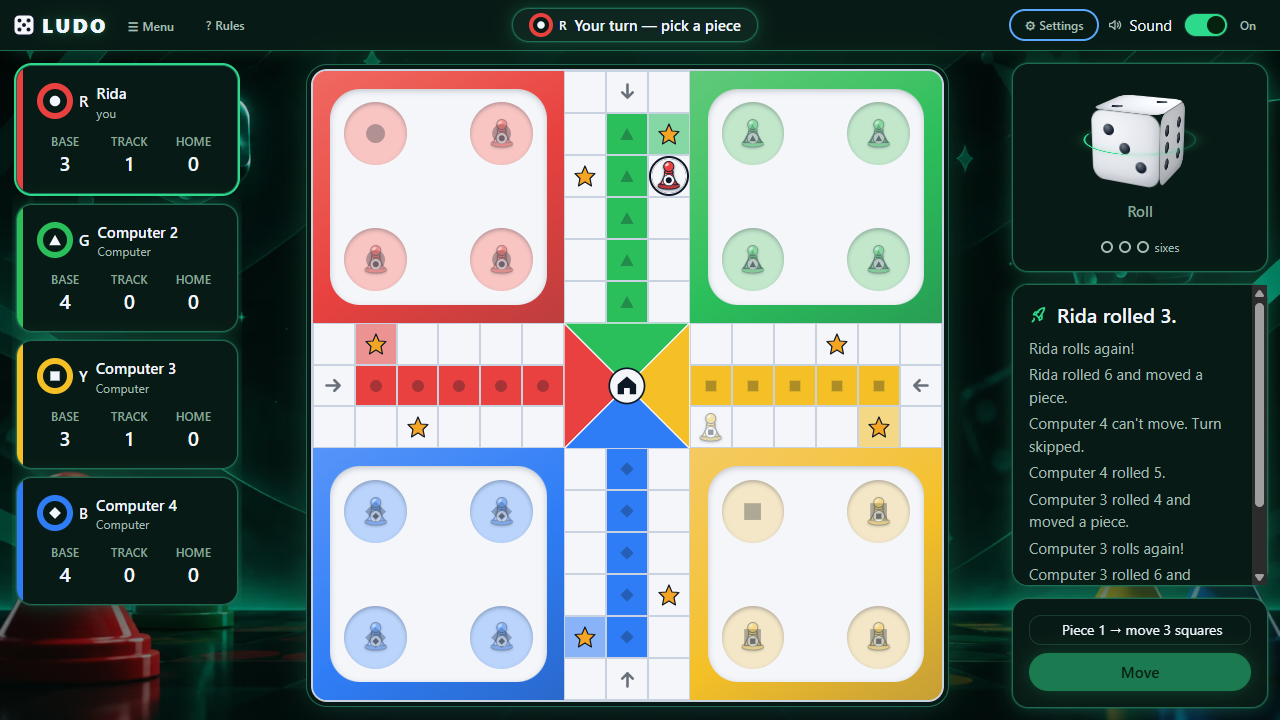
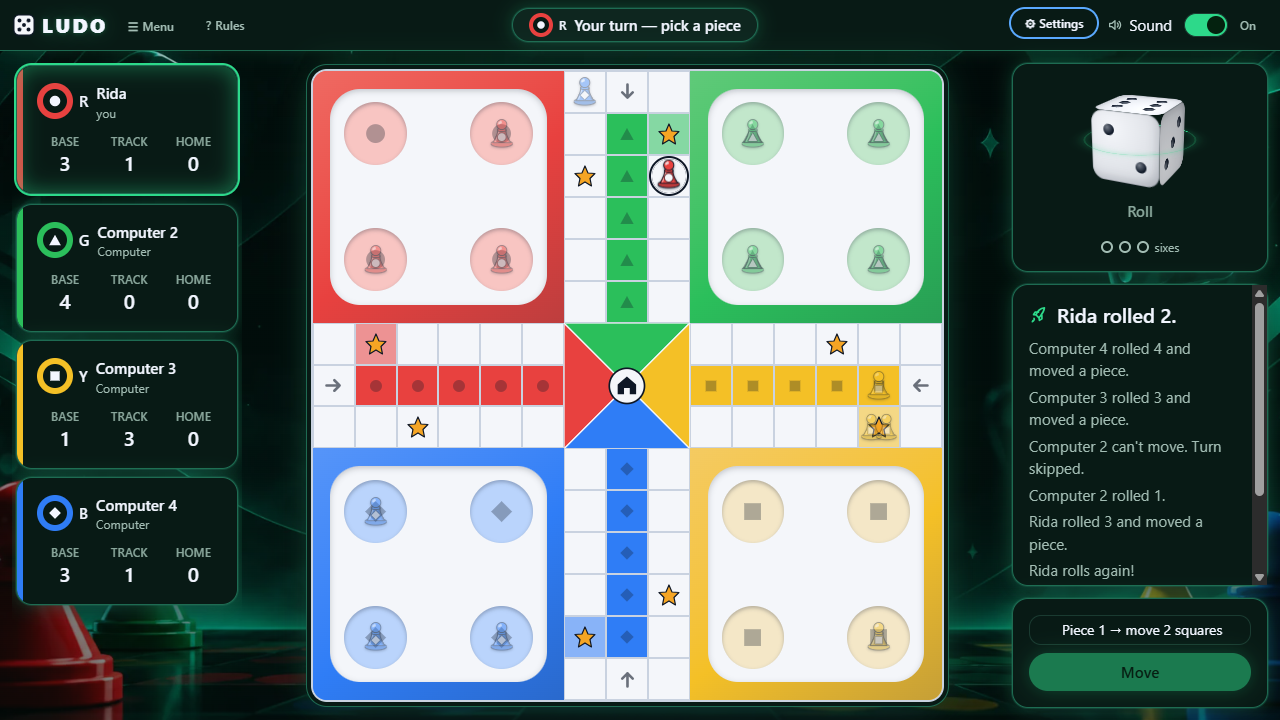
docs: record the new pawn emblem and sounds (FR-SYS-10, NFR-SYS-07)
NFR-SYS-07-pawn-emblem.md and .png show the pawns before and after, in
colour and grayscale. The sounds section of FR-SYS-10-motion-checks.md
describes the new sounds with their measurements and old-and-new
spectrograms. The grayscale and theme screenshots are retaken with the
new pawns. CHANGELOG and the FR-SYS-10 and NFR-SYS-07 rows updated.

diff --git a/docs/05-traceability.md b/docs/05-traceability.md
@@ -21,7 +21,7 @@ Status: `—` not started · `WIP` · `Done` · `Blocked (reason)` · `Dropped (
 | FR-SYS-07 Computer moves | FR-30–31 | P5, P7 | `src/store/gameStore.test.ts` covers `selectIsComputerTurn`. Choosing computer players is done: `src/screens/LobbyScreen.test.tsx` proves a seat fills only when `room:updated` arrives (POST-07-2), and `docs/evidence/FR-SYS-01-lobby-flow.md` shows it live in two tabs. `docs/evidence/FR-SYS-07-computer-move-from-snapshot.png` shows a computer's move drawn from a real snapshot on the game screen. `src/screens/GameScreen.test.tsx` proves a computer's turn says "Computer is thinking…" with the dots, and `docs/evidence/FR-SYS-07-computer-thinking.png` shows it in a real match | Done |
 | FR-SYS-08 Restart, exit, rematch | FR-32–34 | P5, P10 | `src/components/ConfirmDialog.test.tsx` covers the dialog alone. Leaving the lobby is connected: `src/screens/LobbyScreen.test.tsx` and `src/store/gameStore.test.ts` prove Cancel sends nothing (POST-08-1) and a failed leave keeps the room (POST-08-3), and `docs/evidence/FR-SYS-01-lobby-flow.md` shows Esc and Cancel changing nothing in a real browser. `src/components/GameMenu.test.tsx` and `src/screens/GameScreen.test.tsx` prove Restart and Leave ask first, Cancel changes nothing (POST-08-1), and a refused request keeps the game (POST-08-3, tests only). `src/screens/WinScreen.test.tsx`, `src/screens/StoppedScreen.test.tsx` and `src/interaction/useAppNavigation.test.ts` cover Play again, New game, Main menu and the stopped screen, which is tests only. `docs/evidence/FR-SYS-06-win-restart-checks.md` and `docs/evidence/FR-SYS-08-restart-confirm.png` show the rest in real matches with two tabs | Done |
 | FR-SYS-09 One-screen view | FR-35–36 | P6 | `docs/evidence/FR-SYS-09-one-screen-1280x720.png` and `docs/evidence/FR-SYS-09-game-screen-checks.md`: board, dice, turn, progress and messages all fit at 1280×720 with no scrolling, measured in Edge. Under 1024 px the layout stacks and hides nothing (ALT-09-1). `src/screens/GameScreen.test.tsx` proves every part is on the screen. `docs/evidence/FR-SYS-03-move-checks.md` re-measures the screen with the longest list of moves open, and `docs/evidence/FR-SYS-05-event-checks.md` with a full message log. P7 and P9 filled the dice and messages with live content | Done |
-| FR-SYS-10 Sound, animation, theme | FR-37–39 | P5, P8, P9 | `src/App.test.tsx` covers all three settings in the Settings modal and POST-10-2 and POST-10-3: changing them leaves the snapshot and room untouched and sends nothing to the server. `docs/evidence/FR-SYS-01-lobby-flow.md` shows the theme switching on every screen, and `docs/evidence/FR-SYS-10-game-light.png` shows the game screen in light theme. `src/screens/GameScreen.test.tsx` proves the top bar's sound switch leaves the snapshot alone. `docs/evidence/NFR-SYS-08-kitchen-sink-checks.md` shows On, Fast and Off changing how long CSS motion takes. `docs/evidence/FR-SYS-03-move-checks.md` shows Animations On and Off ending on an identical board in a real match. `src/feedback/sound.test.ts` proves sound waits for the first press and does nothing when off. `docs/evidence/FR-SYS-05-event-checks.md` shows the right sounds playing in a real match (placeholder tones), and sound, theme and animation changed during a real game with the board and log unchanged. `docs/evidence/FR-SYS-10-win-light.png` shows the win screen in light theme. Saving settings stays behind `PERSIST_SETTINGS` (ALT-10-1 is TO CONFIRM). P14 adds three more themes (Neon, Forest, Minimal): `src/config/themes.test.ts` checks each sets every colour, `docs/evidence/FR-SYS-10-theme-neon.png` and the other theme screenshots show them, and `docs/evidence/P14-polish-checks.md` records no text below WCAG AA in any of the five. After P14, motion and new sounds: `docs/evidence/FR-SYS-10-motion-checks.md` (`npm run e2e -- motion`) shows the entrances and game motion playing with On, everything ending visible and in place, each sequence done within a second, and nothing moving at all, idle loops included, with Animations Off or the reduced-motion setting (POST-10-2). The sounds come from `scripts/make-sounds.py` and are measured there | Done |
+| FR-SYS-10 Sound, animation, theme | FR-37–39 | P5, P8, P9 | `src/App.test.tsx` covers all three settings in the Settings modal and POST-10-2 and POST-10-3: changing them leaves the snapshot and room untouched and sends nothing to the server. `docs/evidence/FR-SYS-01-lobby-flow.md` shows the theme switching on every screen, and `docs/evidence/FR-SYS-10-game-light.png` shows the game screen in light theme. `src/screens/GameScreen.test.tsx` proves the top bar's sound switch leaves the snapshot alone. `docs/evidence/NFR-SYS-08-kitchen-sink-checks.md` shows On, Fast and Off changing how long CSS motion takes. `docs/evidence/FR-SYS-03-move-checks.md` shows Animations On and Off ending on an identical board in a real match. `src/feedback/sound.test.ts` proves sound waits for the first press and does nothing when off. `docs/evidence/FR-SYS-05-event-checks.md` shows the right sounds playing in a real match (placeholder tones), and sound, theme and animation changed during a real game with the board and log unchanged. `docs/evidence/FR-SYS-10-win-light.png` shows the win screen in light theme. Saving settings stays behind `PERSIST_SETTINGS` (ALT-10-1 is TO CONFIRM). P14 adds three more themes (Neon, Forest, Minimal): `src/config/themes.test.ts` checks each sets every colour, `docs/evidence/FR-SYS-10-theme-neon.png` and the other theme screenshots show them, and `docs/evidence/P14-polish-checks.md` records no text below WCAG AA in any of the five. After P14, motion and new sounds: `docs/evidence/FR-SYS-10-motion-checks.md` (`npm run e2e -- motion`) shows the entrances and game motion playing with On, everything ending visible and in place, each sequence done within a second, and nothing moving at all, idle loops included, with Animations Off or the reduced-motion setting (POST-10-2). The sounds come from `scripts/make-sounds.py` and are measured there. The second version of the sounds models real things (a die on a wooden board, bells, brass), at matched loudness; `src/feedback/sound.test.ts` now reads the real file and checks each sound is where `sound.ts` says, whole and unclipped | Done |
 | (D2 FR-07) Rules summary | FR-07 | P5, P6 | `src/components/RulesSummary.test.tsx` proves the text is built from `rules`. `src/App.test.tsx` proves How to play opens the standard rules from the main screen, that a room's own rules replace them in the lobby, and that the game screen's Rules button opens that match's rules. `docs/evidence/NFR-SYS-11-changed-rules.png` shows the text following the server's rules in a real match | Done |
 | (D2 FR-03) Same-device HvH | FR-03 | P13 | The client said on 2026-11-21 that it isn't needed (`00-requirements.md` §5), so P13 was dropped | Dropped (not needed) |
 
@@ -35,7 +35,7 @@ Status: `—` not started · `WIP` · `Done` · `Blocked (reason)` · `Dropped (
 | NFR-SYS-04 State kept on bad input | P3, P11, P12 | `src/store/gameStore.test.ts`: an older version is dropped, and a rejected or timed-out command leaves the snapshot deep-equal. `src/adapter/LgsAdapter.test.ts`: an incomplete reply is never applied. `src/store/gameStore.test.ts` and `src/feedback/useEventFeedback.test.ts` prove a lost connection keeps the board and events missed while away are never guessed. `src/interaction/useAppNavigation.test.ts` proves a refresh goes back to the right screen, and `src/App.test.tsx` covers the banner and the second-tab card. `src/components/ConnectionBanner.test.tsx` and `src/components/StillThereDialog.test.tsx` cover what the player is told. `docs/evidence/NFR-SYS-04-resilience-checks.md` shows a refresh, a reconnect, a lost snapshot and a second tab in real matches. `docs/evidence/NFR-SYS-04.md` has the P12 test run, and a browser check that fast repeated presses send one request and presses for moves not on offer send nothing | Done |
 | NFR-SYS-05 Dice not altered | P7, P12 | `src/components/Dice.test.tsx`: the face equals the value given, and no number shows while rolling. A search finds no `Math.random` in `src/`, and `eslint.config.js` now rejects it outside tests. `src/screens/GameScreen.test.tsx` proves the die lands on the server's 6, 1 and 3. `docs/evidence/FR-SYS-02-dice-checks.md` and `docs/evidence/NFR-SYS-05-die-shows-six.png` show the same forced rolls in a real match. `docs/evidence/NFR-SYS-05.md` has the P12 test run and search. The optional 3D die from P14 follows the same rule: `src/components/Dice3D.test.tsx` proves it gets no value while rolling, and `docs/evidence/P14-polish-checks.md` records six rolls in a real browser, each landing on the server's value (`docs/evidence/NFR-SYS-05-die3d-landed.png`). Since the visual refresh the default die is a CSS cube (`src/components/DiceFace.tsx`): only its front face has pips, so it still shows only the server's value, and `src/components/Dice.test.tsx` passes unchanged. The emerald look makes it a full cube with pips on all six faces, like a real die: `src/components/DieCube.test.tsx` proves only the face turned to the player is marked as the value and every face is blank while it tumbles, and the front page's die (`src/components/HeroDie.test.tsx`) is decoration that never shows a value | Done |
 | NFR-SYS-06 First-timer completes a turn | P12 | The design supports it with the rules summary (`src/components/RulesSummary.test.tsx`), highlighted pieces and plain words (`docs/evidence/NFR-SYS-08-keyboard.md`). Not run yet: the hallway test needs a person who hasn't seen the app. `docs/evidence/NFR-SYS-06-first-use.md` has the steps and a place for the result. `docs/evidence/NFR-SYS-06-walkthrough.md` records an expert walkthrough, which is not the hallway test: it found that the turn line didn't say to press Move after a piece was picked (fixed, and `src/screens/GameScreen.test.tsx` covers it) and that a skipped first turn doesn't say why (a team decision). Still needed: the hallway test | WIP |
-| NFR-SYS-07 Not colour alone | P4, P12 | `docs/evidence/NFR-SYS-07-player-marks.png`: the `PlayerMark` row in grayscale, where shape and letter still tell the four players apart. `PlayerMark` and `Piece` read `PLAYER_IDENTITY` in `src/config/players.ts`. `src/screens/LobbyScreen.test.tsx` proves every lobby seat shows its mark, empty seats included. `src/components/StatusPanel.test.tsx` proves the game screen's cards show more than colour, and `docs/evidence/NFR-SYS-07-board-grayscale.png` shows the board and status panel in grayscale. `docs/evidence/NFR-SYS-07-move-highlights-grayscale.png` and `docs/evidence/NFR-SYS-07-capture-grayscale.png` show the move highlights, destination marker and dashed capture ring in grayscale. P9's capture and finish effects are movement, and the log uses names, so neither depends on colour. `docs/evidence/NFR-SYS-07-win-grayscale.png` shows the win screen in grayscale. The connection banner's two states differ in words and a spinner as well as the border colour, and `src/components/ConnectionBanner.test.tsx` checks the words. `docs/evidence/NFR-SYS-07-game-dark.png`, `docs/evidence/NFR-SYS-07-game-light.png`, `docs/evidence/NFR-SYS-07-win-dark.png` and `docs/evidence/NFR-SYS-07-win-light.png` show the board, status panel and win screen in grayscale in both themes. `docs/evidence/NFR-SYS-07-contrast.md` checks every text on 11 screens and dialogs in both themes against WCAG AA: none below, the closest 5.33:1. Since the visual refresh the pieces are glossy pawns whose white badge carries the player's shape (`src/components/Pawn.tsx`); the grayscale screenshots above were retaken with them, and `npm run e2e -- contrast` still passes in all five themes | Done |
+| NFR-SYS-07 Not colour alone | P4, P12 | `docs/evidence/NFR-SYS-07-player-marks.png`: the `PlayerMark` row in grayscale, where shape and letter still tell the four players apart. `PlayerMark` and `Piece` read `PLAYER_IDENTITY` in `src/config/players.ts`. `src/screens/LobbyScreen.test.tsx` proves every lobby seat shows its mark, empty seats included. `src/components/StatusPanel.test.tsx` proves the game screen's cards show more than colour, and `docs/evidence/NFR-SYS-07-board-grayscale.png` shows the board and status panel in grayscale. `docs/evidence/NFR-SYS-07-move-highlights-grayscale.png` and `docs/evidence/NFR-SYS-07-capture-grayscale.png` show the move highlights, destination marker and dashed capture ring in grayscale. P9's capture and finish effects are movement, and the log uses names, so neither depends on colour. `docs/evidence/NFR-SYS-07-win-grayscale.png` shows the win screen in grayscale. The connection banner's two states differ in words and a spinner as well as the border colour, and `src/components/ConnectionBanner.test.tsx` checks the words. `docs/evidence/NFR-SYS-07-game-dark.png`, `docs/evidence/NFR-SYS-07-game-light.png`, `docs/evidence/NFR-SYS-07-win-dark.png` and `docs/evidence/NFR-SYS-07-win-light.png` show the board, status panel and win screen in grayscale in both themes. `docs/evidence/NFR-SYS-07-contrast.md` checks every text on 11 screens and dialogs in both themes against WCAG AA: none below, the closest 5.33:1. Since the visual refresh the pieces are glossy pawns whose white badge carries the player's shape (`src/components/Pawn.tsx`); the grayscale screenshots above were retaken with them, and `npm run e2e -- contrast` still passes in all five themes. The pawn's shape is now printed on its body in white with an outline in its own colour instead of a black symbol on a white sticker: `src/components/Pawn.test.tsx` proves every pawn prints its own shape, and `docs/evidence/NFR-SYS-07-pawn-emblem.md` shows all four still readable in grayscale | Done |
 | NFR-SYS-08 Simple wording + keyboard | P4–P12 | `src/components/SegmentedControl.test.tsx`, `src/components/Dice.test.tsx`, `src/App.test.tsx` and `docs/evidence/NFR-SYS-08-kitchen-sink-checks.md` cover the controls on their own. `docs/evidence/FR-SYS-01-lobby-flow.md` records a keyboard-only run from the main screen through setup and the lobby to the game starting, and `docs/evidence/FR-SYS-09-game-screen-checks.md` records the Tab order and the `?` and Esc keys on the game screen. `src/interaction/useGameKeys.test.ts` covers `R`, `1`–`4`, `Enter`, `Esc` and `S`, and `docs/evidence/FR-SYS-02-dice-checks.md` shows rolling by `R` and Space with the die keeping focus. `docs/evidence/FR-SYS-03-move-checks.md` records a whole game, from the main screen to a winner, played with only the keyboard, and `docs/evidence/FR-SYS-06-win-restart-checks.md` records the game menu, the confirm dialog and the win screen used by keyboard alone. `src/App.test.tsx` proves the second-tab card takes the keyboard focus, and `docs/evidence/NFR-SYS-04-resilience-checks.md` records another whole game played by keyboard alone on the P11 code. Player-facing text is in `src/feedback/copy.ts`. `docs/evidence/NFR-SYS-08-keyboard.md` records the P12 run with no mouse, in Chrome and Firefox: setup, waiting room, roll, choose, move, restart, a whole game, Play again and leave. It also has a wording review of `src/feedback/copy.ts` that found nothing to change | Done |
 | NFR-SYS-09 Chrome / Firefox / Edge | P12 | `docs/evidence/NFR-SYS-09-browsers.md`: start, roll, move and win pass with no console errors in Chrome 157, Edge 157 and Firefox 160. In Firefox a whole keyboard-only game, the invalid-input checks and the error screen pass too | Done |
 | NFR-SYS-10 Window sizes | P6, P12 | `docs/evidence/NFR-SYS-10-1024-wide.png`, `docs/evidence/NFR-SYS-10-1366-wide.png` and `docs/evidence/NFR-SYS-10-1920-wide.png`, with measurements in `docs/evidence/FR-SYS-09-game-screen-checks.md`: the game screen has no scrolling and every part in view. `docs/evidence/FR-SYS-03-move-checks.md` re-measures the game screen with the longest list of moves, `docs/evidence/FR-SYS-05-event-checks.md` with a full message log, and `docs/evidence/FR-SYS-06-win-restart-checks.md` the win screen. `docs/evidence/NFR-SYS-10-sizes.md` and its 12 screenshots cover the main, setup, waiting room and game screens at 1024×768, 1366×768 and 1920×1080: no scrolling and every control in view. The front page now fits the window with no scrolling at ten sizes, including laptop browser windows (1366×657, 1280×600) and phones, and the sizes check fails if it ever scrolls ("The front page fits the window" in `docs/evidence/NFR-SYS-10-sizes.md`) | Done |

diff --git a/docs/evidence/FR-SYS-10-motion-checks.md b/docs/evidence/FR-SYS-10-motion-checks.md
@@ -92,27 +92,43 @@ measured while a screen eased in could land beside a small button.
 
 ## Sounds
 
-The placeholder tones are replaced by sounds made by `scripts/make-sounds.py` (numpy and scipy,
-seeded, so the same file comes out every time). One 3-second sprite at 32 kHz mono, 192 kB.
+The placeholder tones were first replaced by simple synthesised sounds. On 2026-11-23 the team
+asked for better, so `scripts/make-sounds.py` was rewritten to model real things rather than beeps:
+
+- a hit is modal: the object rings at a few frequencies of its own, each dying away at its own
+  rate, plus a short click of contact. The die is a resin cube landing on a wooden board, with
+  bounces that come faster and softer, as a thrown die's do;
+- tones are built from their harmonics (a brass "ta-da") or from a frequency-modulated pair (bells);
+- a small room's reverb ties each one together;
+- every sound is set to a loudness (RMS), so none jumps out, and peaks are rounded off softly.
+
+The Fish Audio account connected here was checked first: its free library has no die or game-piece
+sounds, and generating one costs 5,000 credits, more than the account holds.
+
+One 3-second sprite at 44.1 kHz mono, 265 kB, seeded so the same file comes out every time.
 
 | Sound | Plays for | Length | Peak | Loudness (RMS) |
 |---|---|---|---|---|
-| roll | the die rolling: a rattle of clicks and knocks | 380 ms | 0.95 | 0.114 |
-| move | a piece stepping: a wooden tap | 140 ms | 0.70 | 0.128 |
-| capture | a swoosh and a thud | 360 ms | 0.80 | 0.162 |
-| finish | a piece home: three bells, C E G | 390 ms | 0.80 | 0.155 |
-| win | a short fanfare, G C E G | 395 ms | 0.80 | 0.228 |
-| error | two soft falling notes | 220 ms | 0.60 | 0.215 |
+| roll | a die thrown onto a wooden board, bouncing and settling | 380 ms | 0.92 | 0.120 |
+| move | a wooden pawn set down | 200 ms | 0.88 | 0.130 |
+| capture | a clack, a whoosh, and a tone falling as the piece goes home | 380 ms | 0.84 | 0.140 |
+| finish | four bells climbing, C E G C, with a little sparkle | 390 ms | 0.40 | 0.120 |
+| win | a brass pick-up and a C major chord, with a cymbal | 395 ms | 0.81 | 0.170 |
+| error | two soft notes stepping down | 240 ms | 0.42 | 0.110 |
 
-Nothing clips, every sound stays under 400 ms, and each one is silent past its end in the sprite,
-so none runs into the next. Sound still waits for the first press and does nothing when off
-(`src/feedback/sound.test.ts`, unchanged).
+![Spectrograms of the old and new sounds](FR-SYS-10-sounds-old-and-new.png)
+
+Nothing clips, every sound stays under 400 ms, and each is silent past its end, so none runs into
+the next. `src/feedback/sound.test.ts` now also reads the real file and checks that every sound is
+where `sound.ts` says, whole and unclipped. Sound still waits for the first press and does nothing
+when off.
 
 ## Not checked here
 
 - Firefox: the `motion` mode needs the reduced-motion emulation that only Chrome and Edge offer.
   The other modes cover Firefox as before.
-- How the sounds sound. That needs ears; the numbers above only show they are clean and fit.
+- How the sounds sound. That needs ears: the team compared old and new on a listening page
+  before merging. The numbers above only show they are clean and fit.
 - At 1280×720 the front page was a little taller than the window, so it scrolled slightly when
   settled. That was already so before this change. Fixed afterwards: see "The front page fits the
   window" in `NFR-SYS-10-sizes.md`.

diff --git a/CHANGELOG.md b/CHANGELOG.md
@@ -22,3 +22,4 @@
 - After P14: the emerald look, from the team's mockups. The Dark theme turns green and shows the background picture; the front page gets a big 3D die you can drag or spin, the LUDO title and a feature strip; New Game becomes one card with icons; and the game's die becomes a real cube with pips on every face that settles with the server's value toward the player. It also fixes the CSS die from the visual refresh, whose side faces Tailwind had dropped (FR-SYS-01, FR-SYS-02, FR-SYS-10, NFR-SYS-05, NFR-SYS-08).
 - After P14: motion and new sounds. The front page comes in piece by piece: the die drops in, the letters of LUDO rise one at a time, the pawns hop when pointed at, lights drift, and the background and die lean with the pointer. Buttons lift and glow under the pointer, primary buttons catch a sweep of light, cards light up where the pointer is, the choice highlight glides between options, and screens and dialogs ease in. In the game, the player whose turn it is glows, the pieces that can move bob, a chosen piece lifts, a walking piece hops on every square, a captured piece spins home with a burst, a piece reaching home throws sparks, the die squashes when pressed and flashes when it lands, counts flip, and new messages slide in. The win screen's crown drops on and the podium rises. All of it moves only transform and opacity, follows Animations Fast, and stops completely with Animations Off or the device's reduced-motion setting, the endless loops included. The placeholder tones become real sounds made by `scripts/make-sounds.py`: a dice rattle, a wooden tap, a swoosh and thud, chimes, a fanfare and a soft "no" (FR-SYS-05, FR-SYS-10, NFR-SYS-01).
 - After P14: the front page fits the window, so it never scrolls. It used to need 747 px of height, more than most laptop browsers have. Now the die, title, pawns and gaps follow the window's height, so it fits laptop and phone windows and grows on a big screen; in a very short window the feature strip steps aside. The sizes check now fails if the front page scrolls at any of ten window sizes (NFR-SYS-10).
+- After P14: better sounds and cleaner pawns. The sounds now model real things: a die thrown onto a wooden board, a wooden pawn set down, a clack and whoosh home, climbing bells, a brass ta-da and a soft "no", with a little room reverb and matched loudness. Each pawn's shape is now printed on its body in white with an outline in its own colour, instead of a black symbol on a white sticker; it still tells players apart in grayscale (FR-SYS-10, NFR-SYS-07).

diff --git a/docs/evidence/NFR-SYS-07-pawn-emblem.md b/docs/evidence/NFR-SYS-07-pawn-emblem.md
@@ -1,0 +1,28 @@
+# The pawn's emblem (NFR-SYS-07)
+
+Each pawn on the board carries its player's shape, so pieces are told apart without colour. Until
+2026-11-23 the shape was a black symbol on a white sticker. At board size that read as a target or
+a warning sign and clashed with the rest of the board, so the team asked for it to look better.
+
+Now the shape is printed straight on the pawn's body in white, outlined in a deeper shade of the
+pawn's own colour, with a soft shadow below it (`src/components/Pawn.tsx`). The white stands out
+on the red, green and blue bodies; the outline carries it on yellow, which is light, and in
+grayscale. It is also a little larger than the old symbol (7.4 units across on the pawn's 24, was
+5.7).
+
+![Before and after, in colour and in grayscale](NFR-SYS-07-pawn-emblem.png)
+
+Rows, top to bottom: before, after, before in grayscale, after in grayscale. Columns: a red pawn
+(circle), a green one on a safe square (triangle), a yellow one in its home column (square), a blue
+one (diamond), and a red one in its yard.
+
+Checked:
+
+- `src/components/Pawn.test.tsx`: every colour's pawn prints its own shape, the shape is light, not
+  a dark mark, and it is left off only when asked.
+- `npm run e2e -- grayscale --save`: the game and win screens retaken with colour vision turned
+  off (`NFR-SYS-07-game-*.png`, `NFR-SYS-07-win-*.png`), all four shapes readable.
+- `npm run e2e -- themes --save`: the game screen retaken in every theme.
+- `npm run e2e -- contrast`: no text changed, and none falls below the target.
+
+The marks beside names (`PlayerMark`) keep their shape and letter as before.
